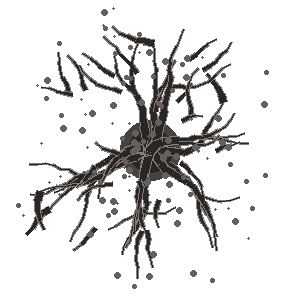
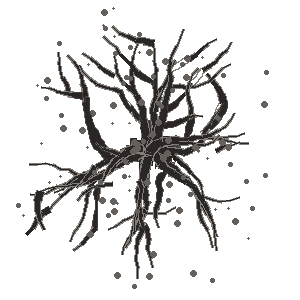
update data

diff --git a/README.md b/README.md
@@ -70,7 +70,7 @@
 | 木灵 | Wood Spirit | 远程（追踪弹；缩放 100% 元素 / 10~25% 护盾；击杀有 5%（+30% 元素）概率为所有玩家回复 1（+20% 护盾）点护盾；每 1 点树木 +5 范围） |
 | 魔仙棒 | Magic Wand | 远程（5 发散弹、无贯通、500 射程；红色 100% 元素 + 25% 幸运缩放；命中生命低于 60/65/70/75% 的敌人时，有 10/15/20/20%（+30% 元素）概率魅惑 8 秒） |
 | 万象天引 | Universal Pull | 远程 1~4 阶（伤害 40/80/120/160；暴击 10% / 3×；缩放 100/200/300/400% 的元素/生命/护盾；0 贯通、0 子弹、0 冷却；价格 60/120/200/300；血量全满时消耗血量至 1 点（不消耗护盾、负护盾上限也可施放），从右上高处按水平 50° 斜落（2 秒落地、显示约 600px）的大陨石砸向触发位置，对直径=武器射程（1000/1100/1200/1300）内所有敌人造成面板伤害；落地爆炸后留下与爆炸同大小的火圈（4 秒，每 0.5 秒点燃圈内敌人；燃烧 6/8/10/12 伤害 × 100/200/300/400% 元素 × 6/8/10/12 段）；每波开始 5 秒内不会召唤陨石；武器不会攻击敌人） |
-| 普通的大剑 | Ordinary Greatsword | 近战 1~4 阶（伤害 20/33/47/60；面板冷却 ≈1.4/1.23/1.07/0.9s；暴击 25% / 3×；缩放 80/95/110/125% 近战 + 100/150/200/250% 护甲；射程 250；词条：独特 / 中世纪 / 利器；价格 45/123/201/280；每 5 次挥砍交替触发：第 5/15/25… 次「地裂斩」（剑放大到射程后下挥 0.55 秒＝举剑 0.15＋下挥 0.25＋收剑 0.15，下挥结束时对射程半径内所有目标造成面板伤害并留下 300×300 地裂，随射程放大，停留 2 秒），第 10/20/30… 次「旋转」（剑以角色为中心放大到武器范围扫出整圈，带 6 张不同弧度的 192×192 弧形剑影，每转 60° 换一张，弧长＝剑长 0.75、径向 0.65R、画布边贴剑身中线且弧身不压剑，最后 0.3 秒淡出）（圈数＝旋转时长 ÷ 当前攻击间隔，攻速越高圈数越多；角色左右翻面跟随剑侧），旋转期间不进行普通攻击，扫中敌人造成面板伤害，武器说明栏已写清机制（每5次攻击在挥砍与旋转扫击交替使用）） |
+| 普通的大剑 | Ordinary Greatsword | 近战 1~4 阶（伤害 20/33/47/60；面板冷却 ≈1.4/1.23/1.07/0.9s；暴击 25% / 3×；缩放 80/95/110/125% 近战 + 100/150/200/250% 护甲；射程 250；词条：独特 / 中世纪 / 利器；价格 45/123/201/280；每 5 次挥砍交替触发：第 5/15/25… 次「地裂斩」（剑放大到射程后下挥 0.55 秒＝举剑 0.15＋下挥 0.25＋收剑 0.15，下挥结束时对射程半径内所有目标造成面板伤害并留下 300×300 地裂，随射程放大，停留 2 秒），第 10/20/30… 次「旋转」（剑以角色为中心放大到武器范围扫出整圈，带 6 张不同弧度的 192×192 弧形剑影，每转 60° 换一张，弧长＝剑长 0.75、径向 0.65R、画布边刚好不压剑身，最后 0.3 秒淡出）（圈数＝旋转时长 ÷ 当前攻击间隔，攻速越高圈数越多；角色左右翻面跟随剑侧），旋转期间不进行普通攻击，扫中敌人造成面板伤害，武器说明栏已写清机制（每5次攻击在挥砍与旋转扫击交替使用），命中敌方子弹时将其弹回（25 伤害 + 200% 远程伤害缩放，同原版光剑），旋转扫击与下挥斩的范围/尺寸按 2× 武器射程，下挥时长随攻速变化（= 当前攻击间隔）） |
 
 ## 物品
 
